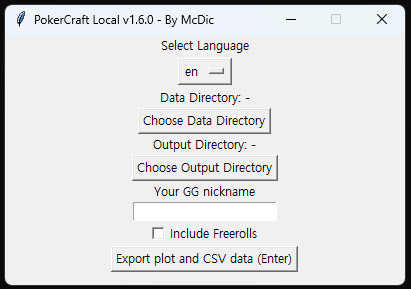
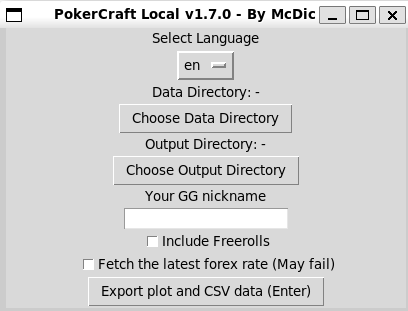
Upgrade version and update README

Changed region(s): [[0.0, 0.0, 1.0, 1.0]]

diff --git a/pokercraft_local/constants.py b/pokercraft_local/constants.py
@@ -1,7 +1,7 @@
 import re
 import typing
 
-VERSION: typing.Final[str] = "1.6.1"
+VERSION: typing.Final[str] = "1.7.0"
 
 POKERCRAFT_AHREF: typing.Final[str] = (
     '<a href="https://github.com/McDic/pokercraft-local/">'

diff --git a/README.md b/README.md
@@ -34,8 +34,9 @@ therefore you may have to download separately monthly or weekly records.
 
 ![pokercraft_download](./images/pokercraft_download.png)
 
-After you downloaded, unzip your downloaded `.zip` files, and put all of them under single folder.
-The library finds all `GG(blabla).txt` files recursively by default, so it's ok to make multiple folders inside to make better organization of files.
+After you downloaded, just put all `.zip` files in single folder.
+The unzipping is not necessary anymore from `v1.7.0`.
+The library finds all `GG(blabla).txt` files from both directory and `.zip` files recursively by default.
 
 ### 3. Running a program
 
@@ -49,12 +50,7 @@ Run `run_cli.py` with some arguments.
 Make sure you installed all dependencies before running.
 
 ```bash
-python run_cli.py \
-    -d (YOUR_DATA_FOLDER) \  # Specify your data directory
-    -o (OUTPUT_FOLDER) \     # Specify your output directory
-    -n (YOUR_GG_NICKNAME) \  # Specify your GG nickname
-    --lang en \              # Specify your language for the report
-    --export-csv \           # Export CSV data file (optional)
+python run_cli.py --help
 ```
 
 Or alternatively, you can run `run_gui.py` instead.
@@ -87,10 +83,12 @@ Note that plotly javascripts are included by CDN, so you need working internet c
 
 ## Features
 
-Each plots are now described in plot, so please read when you generated a file.
-There are 4 sections;
+Each plots are now providing documentations in `.html`,
+so please read when you generated a file.
+There are following sections;
 
-1. Historical Performance
-2. Relative Prize Returns
+1. Historical Performances
+2. RRE Heatmaps
 3. Bankroll Analysis with Monte-Carlo simulation
 4. Your Prizes
+5. RR by Rank Percentiles
